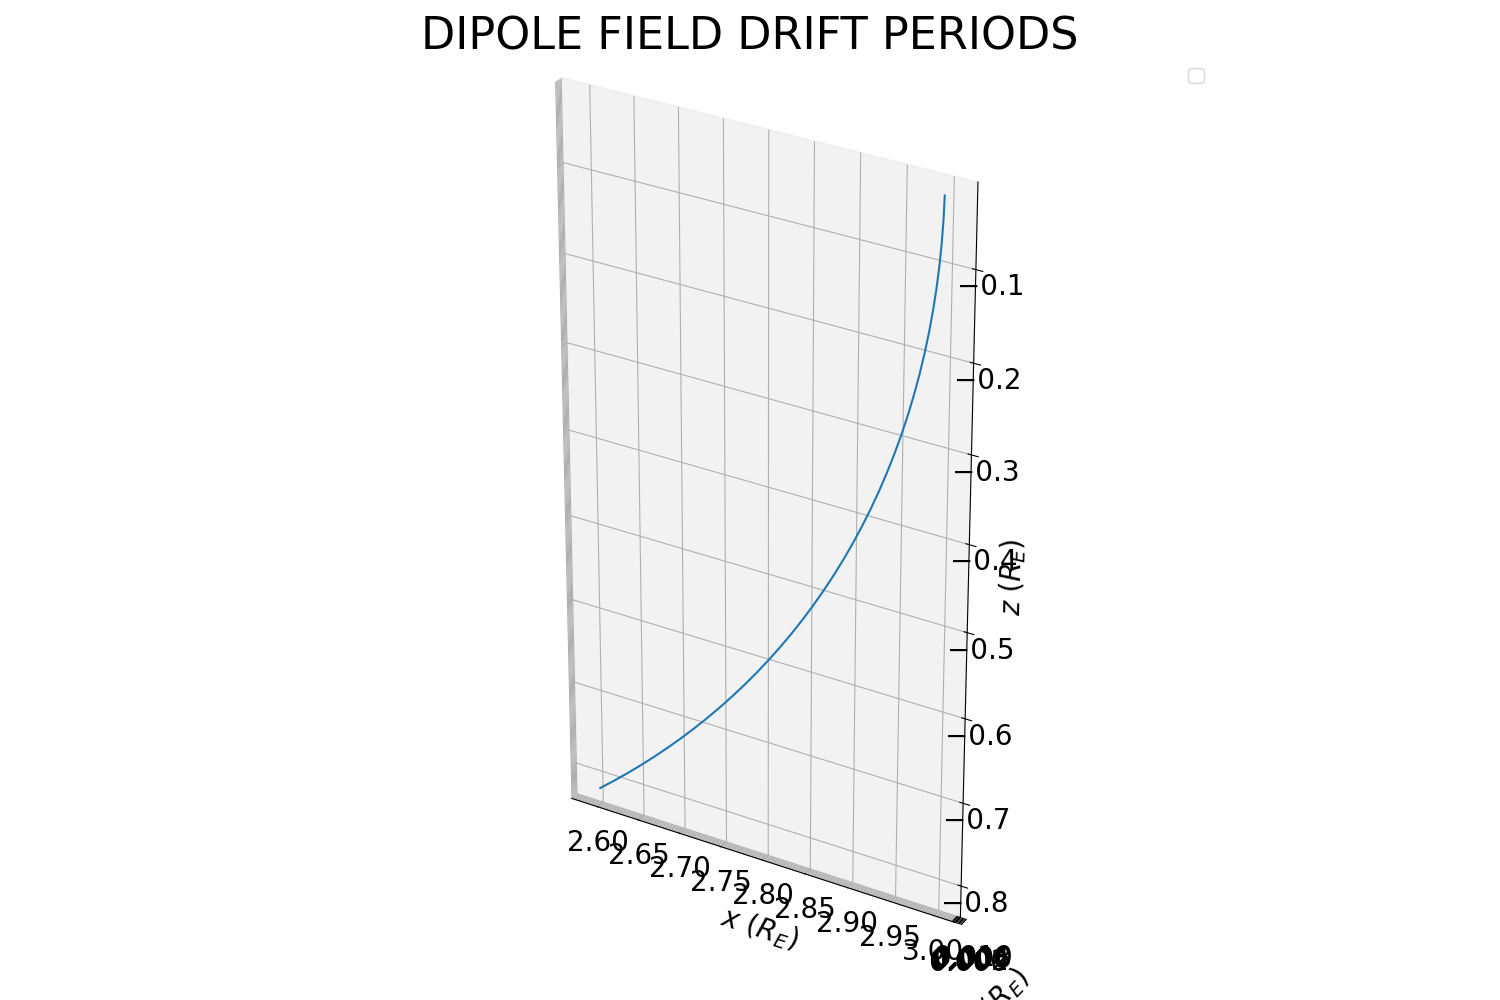
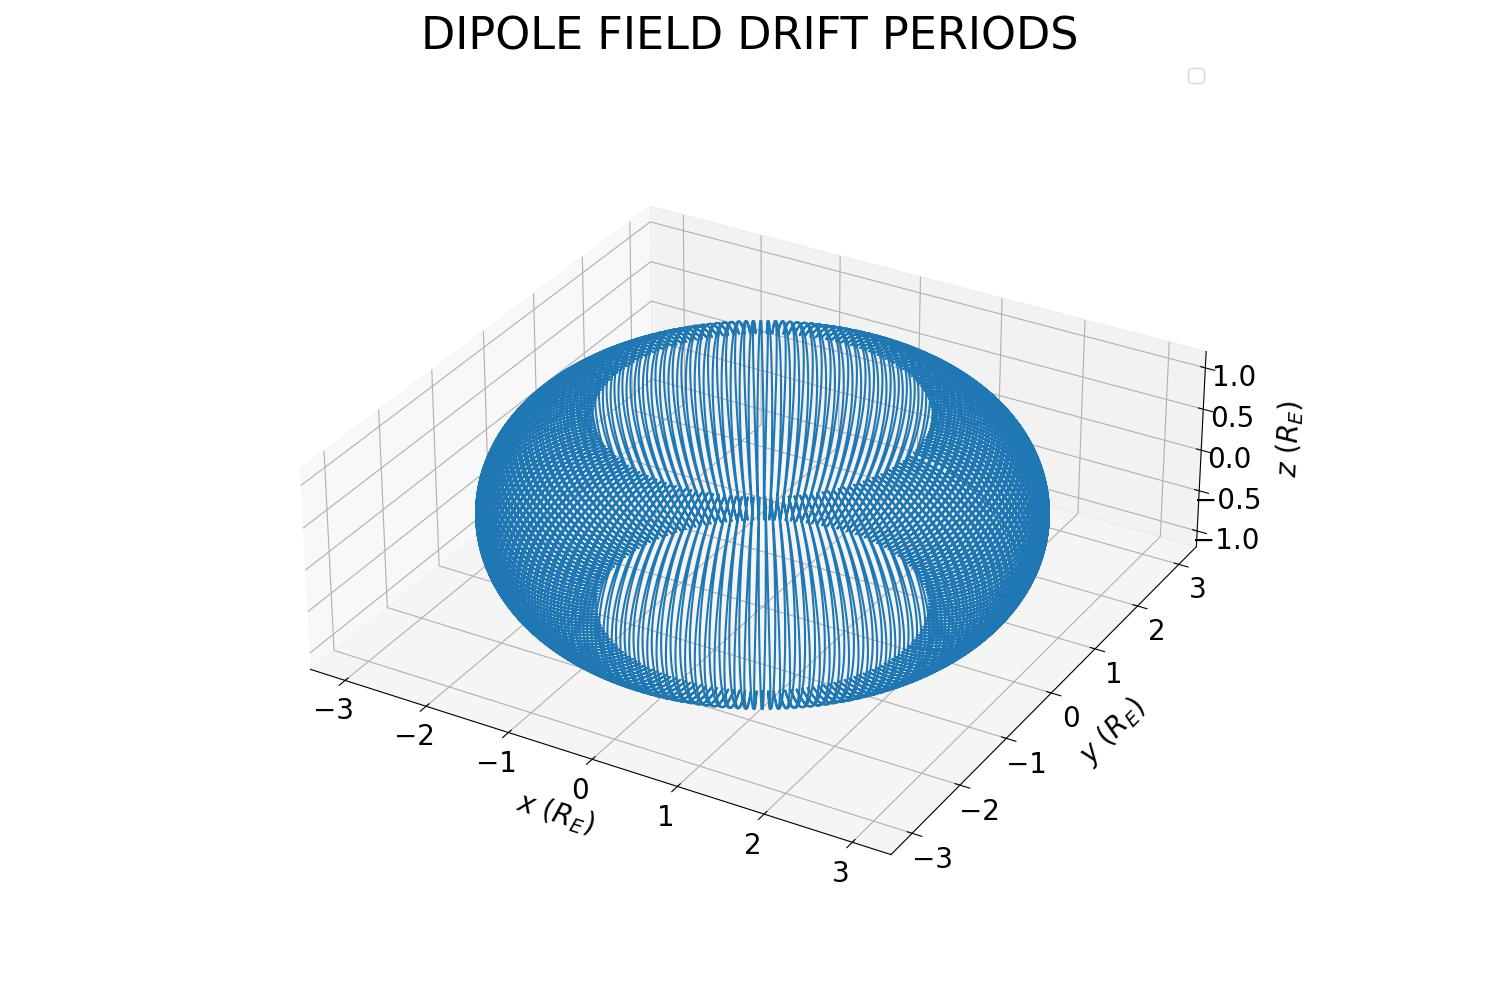
Pushed work on debugging benchmarks

diff --git a/benchmarks/main_test_dipole_periods.cc b/benchmarks/main_test_dipole_periods.cc
@@ -21,25 +21,10 @@ int main(int argc, char **argv) {
    DataContainer container;
 
 //----------------------------------------------------------------------------------------------------------------------------------------------------
-// Set simulation types, bring in hyperparameters
-//----------------------------------------------------------------------------------------------------------------------------------------------------
-
-   using Trajectory = Trajectory<HConfig>;
-
-   using InitialTime = InitialTimeFixed<HConfig>;
-   using InitialSpace = InitialSpaceFixed<HConfig>;
-   using InitialMomentum = InitialMomentumRing<HConfig>;
-
-   using BoundaryTime = BoundaryTimeExpire<HConfig>;
-   using Boundary1 = BoundarySphereAbsorb<HConfig>;
-   using Boundary2 = BoundaryPlanePass<HConfig>;
-   using Boundary3 = BoundaryMirror<HConfig>;
-
-//----------------------------------------------------------------------------------------------------------------------------------------------------
 // Create a trajectory
 //----------------------------------------------------------------------------------------------------------------------------------------------------
 
-   std::unique_ptr<Trajectory> trajectory = std::make_unique<Trajectory>();
+   std::unique_ptr<Trajectory<HConfig>> trajectory = std::make_unique<Trajectory<HConfig>>();
 
 //----------------------------------------------------------------------------------------------------------------------------------------------------
 // Connect RNG
@@ -47,41 +32,6 @@ int main(int argc, char **argv) {
 
    std::shared_ptr<RNG> rng = std::make_shared<RNG>(time(NULL));
    trajectory->ConnectRNG(rng);
-
-//----------------------------------------------------------------------------------------------------------------------------------------------------
-// Background
-//----------------------------------------------------------------------------------------------------------------------------------------------------
-
-//   container.Clear();
-//
-//// Initial time
-//   double t0 = 0.0;
-//   container.Insert(t0);
-//
-//// Origin
-//   container.Insert(gv_zeros);
-//
-//// Velocity
-//   container.Insert(gv_zeros);
-//
-//// Magnetic field
-//   double Bmag = 0.311 / unit_magnetic_fluid;
-//   GeoVector B0(0.0, 0.0, Bmag);
-//   container.Insert(B0);
-//
-//// Effective "mesh" resolution
-////   double RE = 6.37e8 / unit_length_fluid;
-////   double dmax_fraction = 0.1;
-//   double dmax = dmax_fraction * RE;
-//   container.Insert(dmax);
-//
-//// Reference equatorial distance
-//   container.Insert(RE);
-//
-//// dmax fraction for distances closer to the dipole
-//   container.Insert(dmax_fraction);
-//
-//   trajectory->SetupBackground(container);
 
 //----------------------------------------------------------------------------------------------------------------------------------------------------
 // Time initial condition
@@ -93,7 +43,7 @@ int main(int argc, char **argv) {
    double init_t = 0.0;
    container.Insert(init_t);
 
-   trajectory->AddInitial(InitialTime(), container);
+   trajectory->AddInitial(InitialTimeFixed<HConfig>(), container);
 
 //----------------------------------------------------------------------------------------------------------------------------------------------------
 // Spatial initial condition
@@ -105,7 +55,7 @@ int main(int argc, char **argv) {
    GeoVector start_pos(L * RE, 0.0, 0.0);
    container.Insert(start_pos);
 
-   trajectory->AddInitial(InitialSpace(), container);
+   trajectory->AddInitial(InitialSpaceFixed<HConfig>(), container);
 
 //----------------------------------------------------------------------------------------------------------------------------------------------------
 // Momentum initial condition
@@ -120,7 +70,7 @@ int main(int argc, char **argv) {
    double theta_eq = DegToRad(30.0);
    container.Insert(theta_eq);
 
-   trajectory->AddInitial(InitialMomentum(), container);
+   trajectory->AddInitial(InitialMomentumRing<HConfig>(), container);
 
 //----------------------------------------------------------------------------------------------------------------------------------------------------
 // Time boundary condition (end)
@@ -139,14 +89,14 @@ int main(int argc, char **argv) {
 // Duration of the trajectory
    double drift_period = 3600.0 * 1.05 / MeV_kinetic_energy / L / (1.0 + 0.43 * sin(theta_eq)) / unit_time_fluid;
    double bounce_period = 2.41 * L * (1.0 - 0.43 * sin(theta_eq)) / sqrt(MeV_kinetic_energy) / unit_time_fluid;
-//   double maxtime = 10.0 * drift_period;
+   double maxtime = 10.0 * drift_period;
    // test
-   double maxtime = drift_period/10;
+//   double maxtime = drift_period/1000;
    // debug
-//   double maxtime = drift_period/10000;
+//   double maxtime = drift_period/40000;
    container.Insert(maxtime);
 
-   trajectory->AddBoundary(BoundaryTime(), container);
+   trajectory->AddBoundary(BoundaryTimeExpire<HConfig>(), container);
 
 //----------------------------------------------------------------------------------------------------------------------------------------------------
 // Space boundary condition 1 (Earth)
@@ -167,7 +117,7 @@ int main(int argc, char **argv) {
 // Radius
    container.Insert(RE);
 
-//   trajectory->AddBoundary(Boundary1(), container);
+   trajectory->AddBoundary(BoundarySphereAbsorb<HConfig>(), container);
 
 //----------------------------------------------------------------------------------------------------------------------------------------------------
 // Space boundary condition 2 (drift)
@@ -189,7 +139,7 @@ int main(int argc, char **argv) {
    GeoVector normal_drift(1.0, 0.0, 0.0);
    container.Insert(normal_drift);
 
-   trajectory->AddBoundary(Boundary2(), container);
+   trajectory->AddBoundary(BoundaryPlanePass<HConfig>(), container);
 
 //----------------------------------------------------------------------------------------------------------------------------------------------------
 // Space boundary condition 3 (bounce)
@@ -210,7 +160,7 @@ int main(int argc, char **argv) {
    GeoVector normal_bounce(0.0, 0.0, 1.0);
    container.Insert(normal_bounce);
 
-   trajectory->AddBoundary(Boundary2(), container);
+   trajectory->AddBoundary(BoundaryPlanePass<HConfig>(), container);
 
 //----------------------------------------------------------------------------------------------------------------------------------------------------
 // Momentum boundary condition (bounce)
@@ -224,7 +174,7 @@ int main(int argc, char **argv) {
 // Action
    container.Insert(actions);
 
-   trajectory->AddBoundary(Boundary3(), container);
+   trajectory->AddBoundary(BoundaryMirror<HConfig>(), container);
 
 //----------------------------------------------------------------------------------------------------------------------------------------------------
 // Run the simulation

diff --git a/src/trajectory_guiding.cc b/src/trajectory_guiding.cc
@@ -67,16 +67,16 @@ Ref: Tao, X., Chan, A. A., and Brizard, A. J., Hamiltonian theory of adiabatic m
 template <typename HConfig>
 void TrajectoryGuiding<HConfig>::ModifiedFields(void)
 try {
-auto MP = _coords.MomPerp();
-auto AM = _fields.AbsMag();
+   auto AM = _fields.AbsMag();
 
 // Modified fields
-   auto rL = LarmorRadius<specie>(MP, AM);
-   auto rR = LarmorRadius<specie>(_coords.MomPara(), _fields.AbsMag());
+   auto rL = LarmorRadius<specie>(_coords.MomPerp(), AM);
+   auto rR = LarmorRadius<specie>(_coords.MomPara(), AM);
    Evec_star = _fields.Ele();
    Evec_star = Evec_star - rR * _fields.AbsMag() * _fields.DotHatMag() / c_code;
    Evec_star = Evec_star - rL * _coords.VelPerp() * _fields.DelAbsMag() / (2.0 * c_code);
    Bvec_star = _fields.Mag();
+//   cout << "curl bhat " << _fields.CurlHatMag() << " rR " << rR << endl;
    Bvec_star = Bvec_star + rR * _fields.AbsMag() * _fields.CurlHatMag();
 }
 
@@ -96,7 +96,10 @@ void TrajectoryGuiding<HConfig>::DriftCoeff(void)
    ModifiedFields();
 
    drift_vel = (_coords.VelPara() * Bvec_star + c_code * (Evec_star ^ _fields.HatMag())) / (Bvec_star * _fields.HatMag());
-   cout << "VelPara, VelPerp " << _coords.VelPara() << ", " << _coords.VelPerp()<< endl;
+//   cout << " c_code " << c_code << endl;
+//   cout << "vel[2] " << _coords.VelPara() << " Bvec_star " << Bvec_star << " Evec_star " << Evec_star << " bhat " << _fields.HatMag() << endl;
+//   cout << "VelPara, VelPerp " << _coords.VelPara() << ", " << _coords.VelPerp()<< endl;
+//   cout << "drift_vel " << drift_vel << endl;
 };
 
 /*!
@@ -111,6 +114,9 @@ void TrajectoryGuiding<HConfig>::PhysicalStep(void)
    constexpr double drift_safety = Config::drift_safety;
    dt_physical = cfl_adv * _dmax/(drift_vel.Norm() + drift_safety * _coords.Vel().Norm());
 //   dt_physical = cfl_adv * _dmax / (drift_vel.Norm() + drift_safety * _coords.Vel().Norm());
+//   cout << "\tSTEP dmax " << _dmax << " advection " << cfl_adv << " drift_safety " << drift_safety << endl;
+//   cout << "\tSTEP drift_vel " << drift_vel.Norm() << " vel " << _coords.Vel().Norm() << endl;
+//   cout << "\tSTEP dt_physical " << dt_physical << endl;
 };
 
 /*!
@@ -124,17 +130,31 @@ template <typename HConfig>
 void TrajectoryGuiding<HConfig>::Slopes(GeoVector& slope_pos_istage, GeoVector& slope_mom_istage)
 {
    DriftCoeff();
+
    slope_pos_istage = drift_vel;
 
+#if 0
+   // using (p_perp, 0, p_para)
    if constexpr (Config::pperp_method == TrajectoryOptions::PPerpMethod::mag_moment_conservation) {
       slope_mom_istage[0] = 0.0;
    }
    else if constexpr (Config::pperp_method == TrajectoryOptions::PPerpMethod::scheme) {
       slope_mom_istage[0] = 0.5 * _coords.MomPerp() / _fields.AbsMag() * (_fields.DotAbsMag() + drift_vel * _fields.DelAbsMag());
    }
-
    slope_mom_istage[1] = 0.0;
    slope_mom_istage[2] = specie.q * (Evec_star * Bvec_star) / (Bvec_star * _fields.HatMag());
+#else
+   // using (perp, para, azim) (Fields)
+   if constexpr (Config::pperp_method == TrajectoryOptions::PPerpMethod::mag_moment_conservation) {
+      slope_mom_istage[0] = 0.0;
+   }
+   else if constexpr (Config::pperp_method == TrajectoryOptions::PPerpMethod::scheme) {
+      slope_mom_istage[0] = 0.5 * _coords.MomPerp() / _fields.AbsMag() * (_fields.DotAbsMag() + drift_vel * _fields.DelAbsMag());
+   }
+   slope_mom_istage[1] = specie.q * (Evec_star * Bvec_star) / (Bvec_star * _fields.HatMag());
+   slope_mom_istage[2] = 0.0;
+#endif
+//   cout << "[Slopes] slopes mom istage " << slope_mom_istage << endl;
 };
 
 /*!

diff --git a/src/initial_momentum.cc b/src/initial_momentum.cc
@@ -209,8 +209,8 @@ void InitialMomentumRing<HConfig>::SetupInitial(bool construct)
    }
    else if constexpr (Coordinates::Mom_sys == CoordinateSystem::anisotropic) {
       // e.g., Guiding trajectories
-      _coords.MomPerp('w') = p0 * mu0;
-      _coords.MomPara('w') = p0 * st0;
+      _coords.MomPerp('w') = p0 * st0;
+      _coords.MomPara('w') = p0 * mu0;
    }
    _coords.template MakeConsistent<Coordinates>();
 

diff --git a/config-spectrum/config_spectrum/main.py b/config-spectrum/config_spectrum/main.py
@@ -35,7 +35,7 @@ def main():
     parser.add_argument(
         "-V", "--version",
         action="version",
-        version = "config-spectrum 0.2.0",
+        version = "config-spectrum 0.2.2",
     )
     parser.add_argument(
         "--mkdefaults", "-mk",

diff --git a/config-spectrum/README.md b/config-spectrum/README.md
@@ -10,10 +10,29 @@ Config-SPECTRUM is a configuration assistant for [SPECTRUM](https://github.com/v
 
 ## Quick Start 🥚
 
-The script is accessed via a command line entry point ``config-spectrum``. 
-Compile-time constants (parameters) may be set at the command line. 
-The tool will also resolve a set of contingent defaults. 
+### Installation
 
+After obtaining SPECTRUM and adding the variable `SPECTRUM` to the user environment, 
+defining the source code location, 
+install ``config-spectrum``:
+```bash
+pip install config-spectrum
+```
+This defines a command line entry point ``config-spectrum``. 
+The only dependency of ``config-spectrum`` is Tomli, 
+so the effect on system Python should be negligible, but to be safe, 
+you may do this in a Python virtual environment if you prefer 
+(this step is outside the scope of this guide). 
+To remove ``config-spectrum`` from your system:
+```bash
+pip uninstall config-spectrum
+```
+in the environment where it was installed.
+
+### Usage
+
+Compile-time constants (parameters) may be set at the command line. 
+The tool will also resolve a set of contingent defaults.
 For example:
 ```bash
 config-spectrum . -b Dipole -t Lorentz -d None
@@ -35,11 +54,12 @@ For more information, use the help flag ``config-spectrum -h`` or ``config-spect
 ## Guide for Developers 💾
 
 Except for the frontend in ``main.py``, the implementation is in the 
-submodule ``_impl``, and should not need to be frequently modified.
+submodule ``_impl``, and should not need to be frequently modified, 
+in the event that the SPECTRUM source has been updated.
 
 The files ``config_parameters.py`` and ``config_physical.py`` in ``config-spectrum``, 
 and the file ``common/compiletime_lists.hh`` are 
-the "source of truth" for all of SPECTRUM. 
+the "source of truth" for SPECTRUM configuration. 
 
 * ``compiletime_lists.hh``. This file and included header files determine 
 fundamental structure is exposed at compile-time. In particular, it determines what Backgrounds, 
@@ -50,19 +70,22 @@ a new Background implemented in ``background_silly.hh`` / ``background_silly.cc`
 can be registered in ``compiletime_lists.hh`` by adding ``Silly`` to the 
 list of backgrounds.
 
-* ``config_parameters.py``. Contains a specification of all (hyper)parameters
+* ``config_parameters.py``. Contains a specification of all parameters
 for the SPECTRUM test particle trajectory solver. 
 It provides type information, possible ranges,
-a docstring, and a globally-defined fallthrough default value. 
-**Modifications of this file should be made in tandem with review and 
-possible modifications of ``compiletime_lists.hh``.**
+a docstring, and a globally-defined fallthrough default value.
 
-* ``config_physical.py``. Contains 
+* ``config_physical.py``. Contains the default values for individual 
+cases, so that these can be tuned individually. 
+See below for information about setting/modifying these. 
 
 This leads to the following general heuristic for developers:
 * **Modifications of ``compiletime_lists.hh`` should be made in tandem with review and
   possible modifications of ``config_parameters.py``, and vice versa.**
 * **Modifications of ``config_physical.py`` can be freely made.**
+
+This distinction explains why ``config_physical.py`` is isolated 
+in its own file. 
 
 Whenever changes to either of the ``.py`` files are made, 
 the ``.config.hh`` files that appear in ``/src/`` need to be updated. 
@@ -77,18 +100,34 @@ config-spectrum . --mkdefaults --test
 
 ## Setting default values in ``config_physical.py``
 
-The dict of dicts in ``conig_physical.py`` defines a "reasonable" default
-for the particular trajectory/background/diffusion type. 
-This file is the unique location in the code where
-these default values are defined.
+### The ``physical_defaults`` dict
 
-There is no inheritance mechanism, so
+The dict of dicts in ``config_physical.py``, called ``physical_defaults``, 
+defines a "reasonable" default for each particular trajectory/background/diffusion 
+type. Its purpose is to allow default values to depend 
+on the choice of Background, Trajectory, and Diffusion.
+This was the approach used in previous versions of SPECTRUM.
+
+This file is the unique location in the code where
+these default values are defined. There is no inheritance mechanism, so
 each class repeats parameters defined in base classes.
 In some cases, this is indicated by commented-out dividers. 
-
 The dicts are used on an "as-needed" basis, so the definitions here 
 are not brittle. ``config-spectrum`` will automatically check that 
-every case has a default value. 
+every case has a default value, but if it doesn't find an object-specific 
+value, it will use the global fall-back in ``config_parameters.py``. 
+
+The dict of dicts ``physical_defaults`` has the following structure:
+```
+physical_defaults = {
+    'Background': ..., # dict of backgrounds
+    'Trajectory': ..., # dict of trajectories
+    'Diffusion': ..., # dict of diffusions
+}
+```
+This defines a simple but efficient "tree" of default values.
+
+### Formatting
 
 The formatting of values of key-value pairs 
 is performed by the ``value`` method in ``_impl/configdata.py``. 
@@ -99,27 +138,8 @@ a file name), then this value is set as a string. Default values of strings can
 be set using an ordinary double-quote "..." string.
 If the type is type (a C++ type), then the type is set here
 inside of a double-quote string. Brace-initializer expressions can be 
-used for default values. 
-
-The dict of dicts ``physical_defaults`` has the following structure:
-```
-physical_defaults = {
-    'Background': ..., # dict of backgrounds
-    'Trajectory': ..., # dict of trajectories
-    'Diffusion': ..., # dict of diffusions
-}
-```
-
-## Notes
-
-* It is not possible to do what `config-spectrum` does using compile-time language features of C++20,
-the version used by SPECTRUM. Therefore a custom-built solution is needed,
-and this is one possibility (among many) which takes advantage of the well-developed
-Python ecosystem. Experience with `config-spectrum`
-
-
-
+used for default values.
 
 ### Last Updated
 
-Lucius Schoenbaum May 31, 2026
+Lucius Schoenbaum June 2, 2026